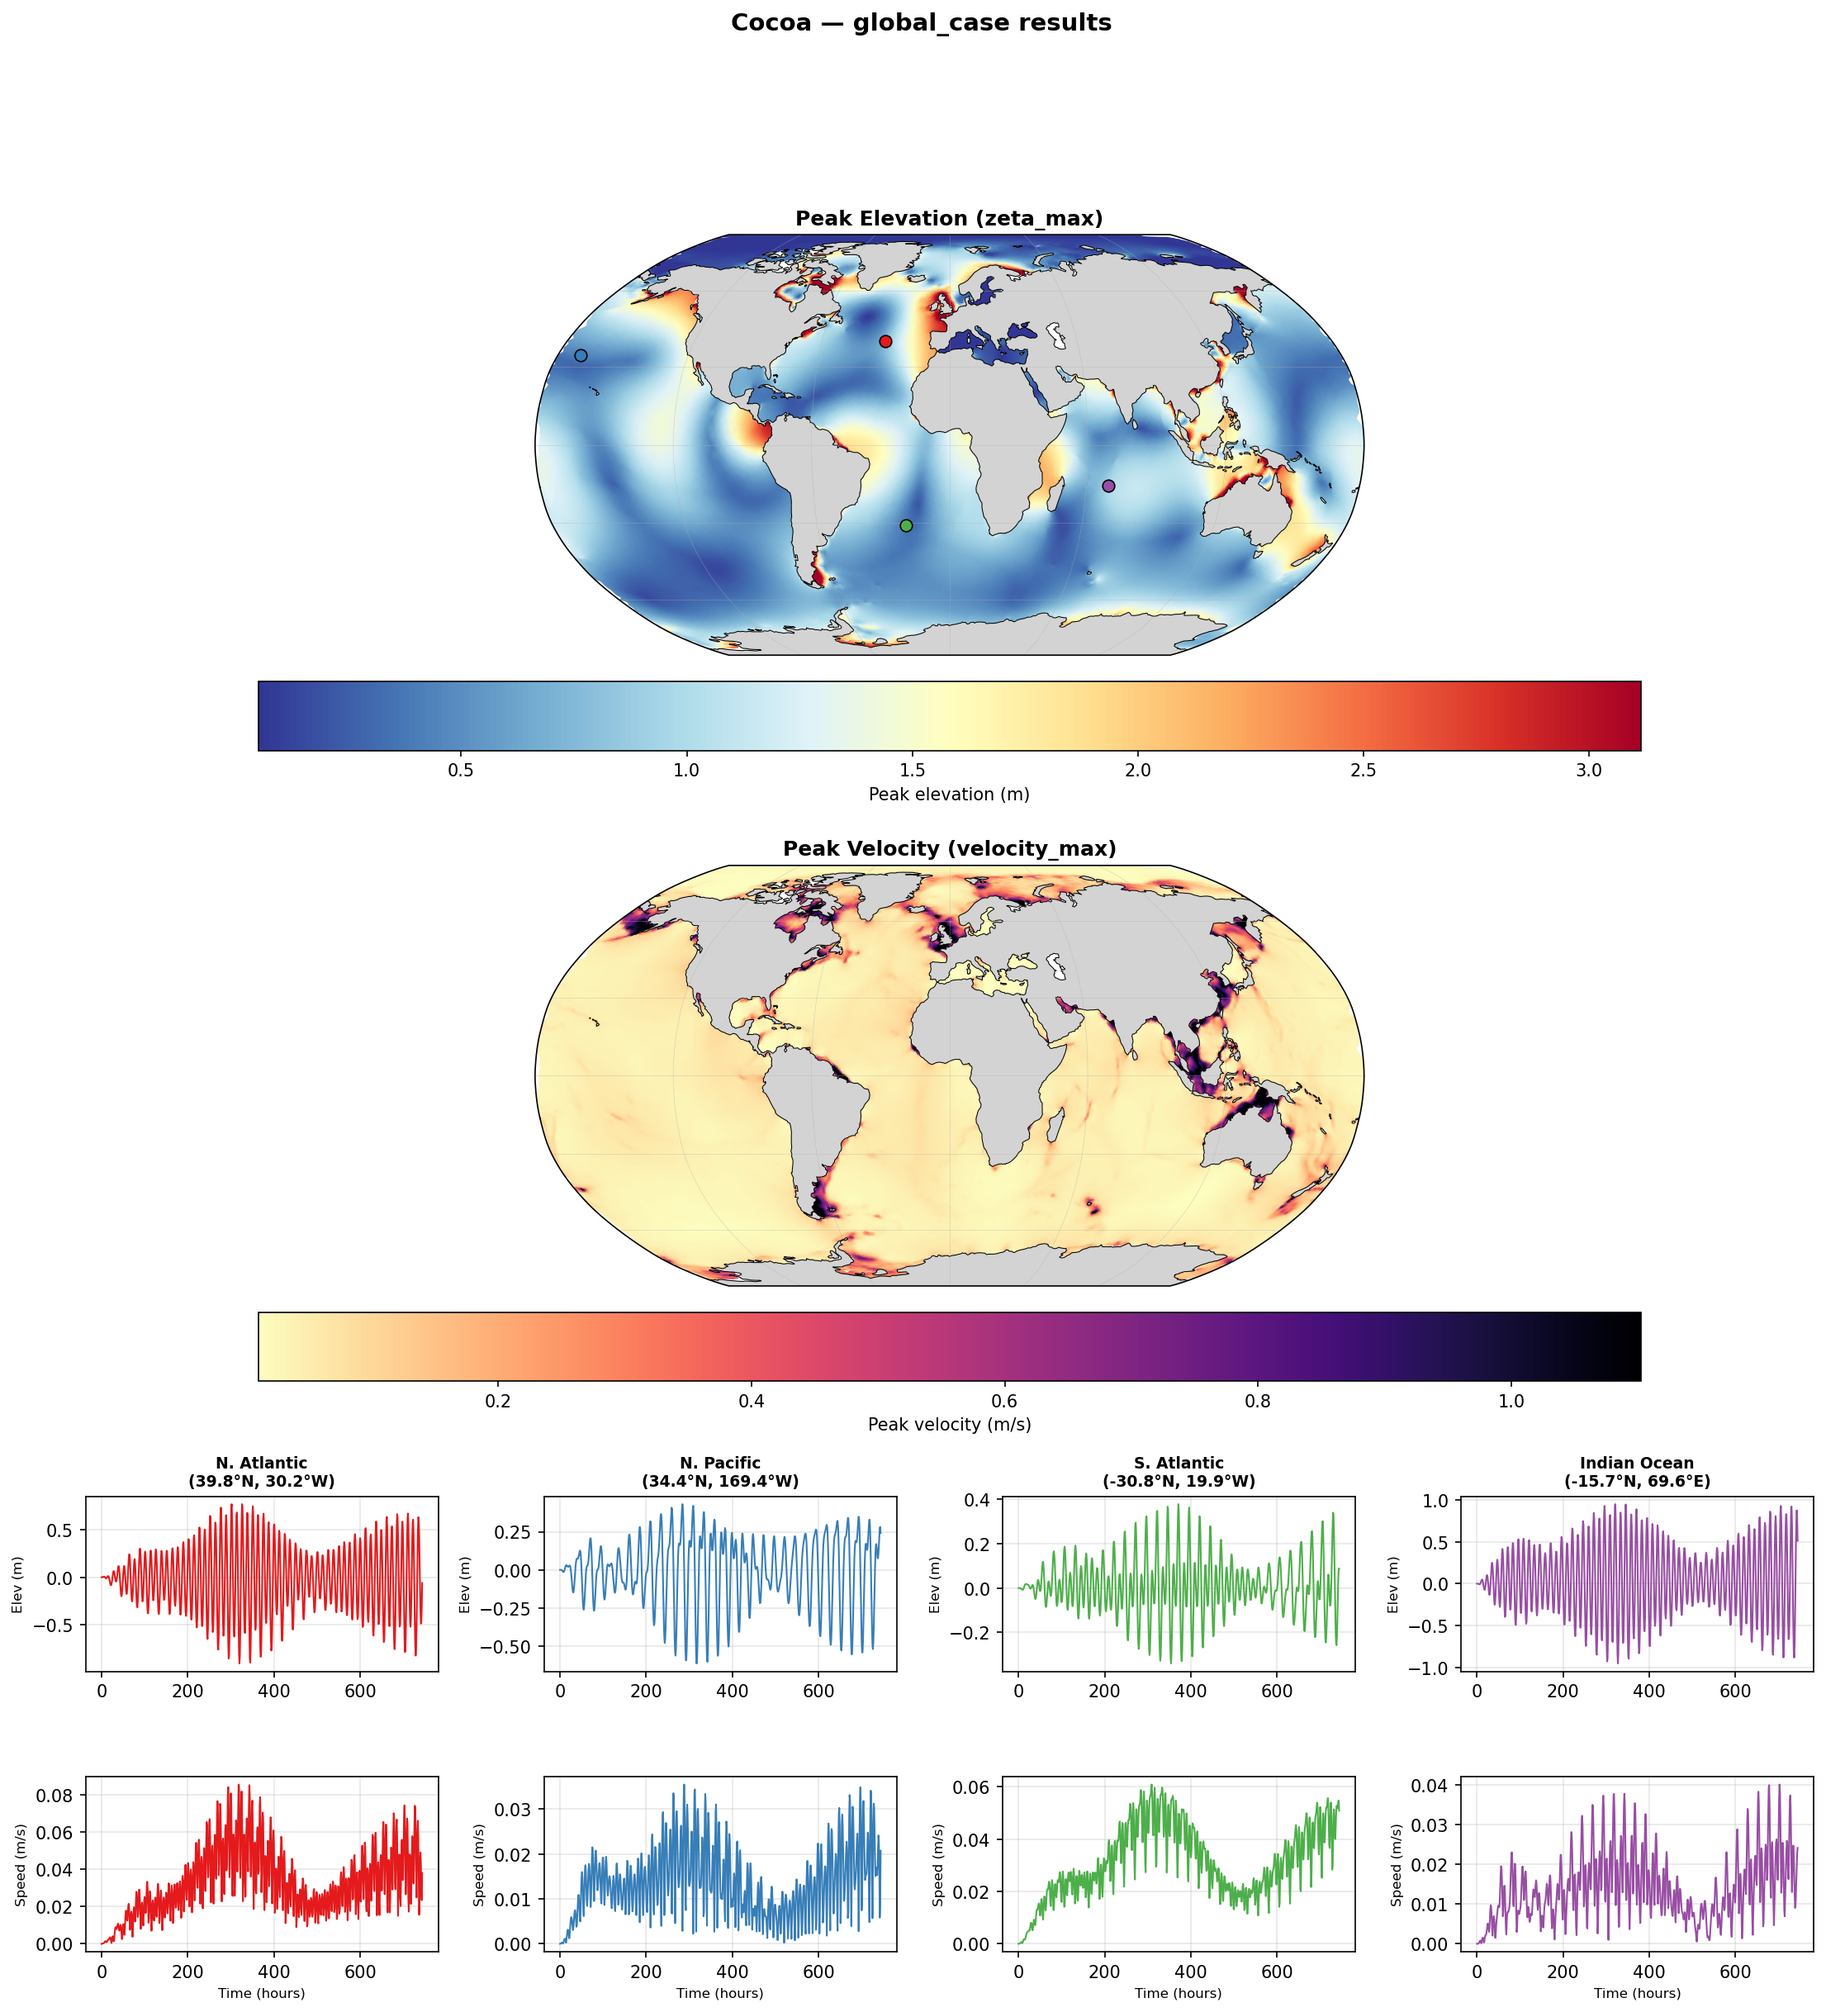
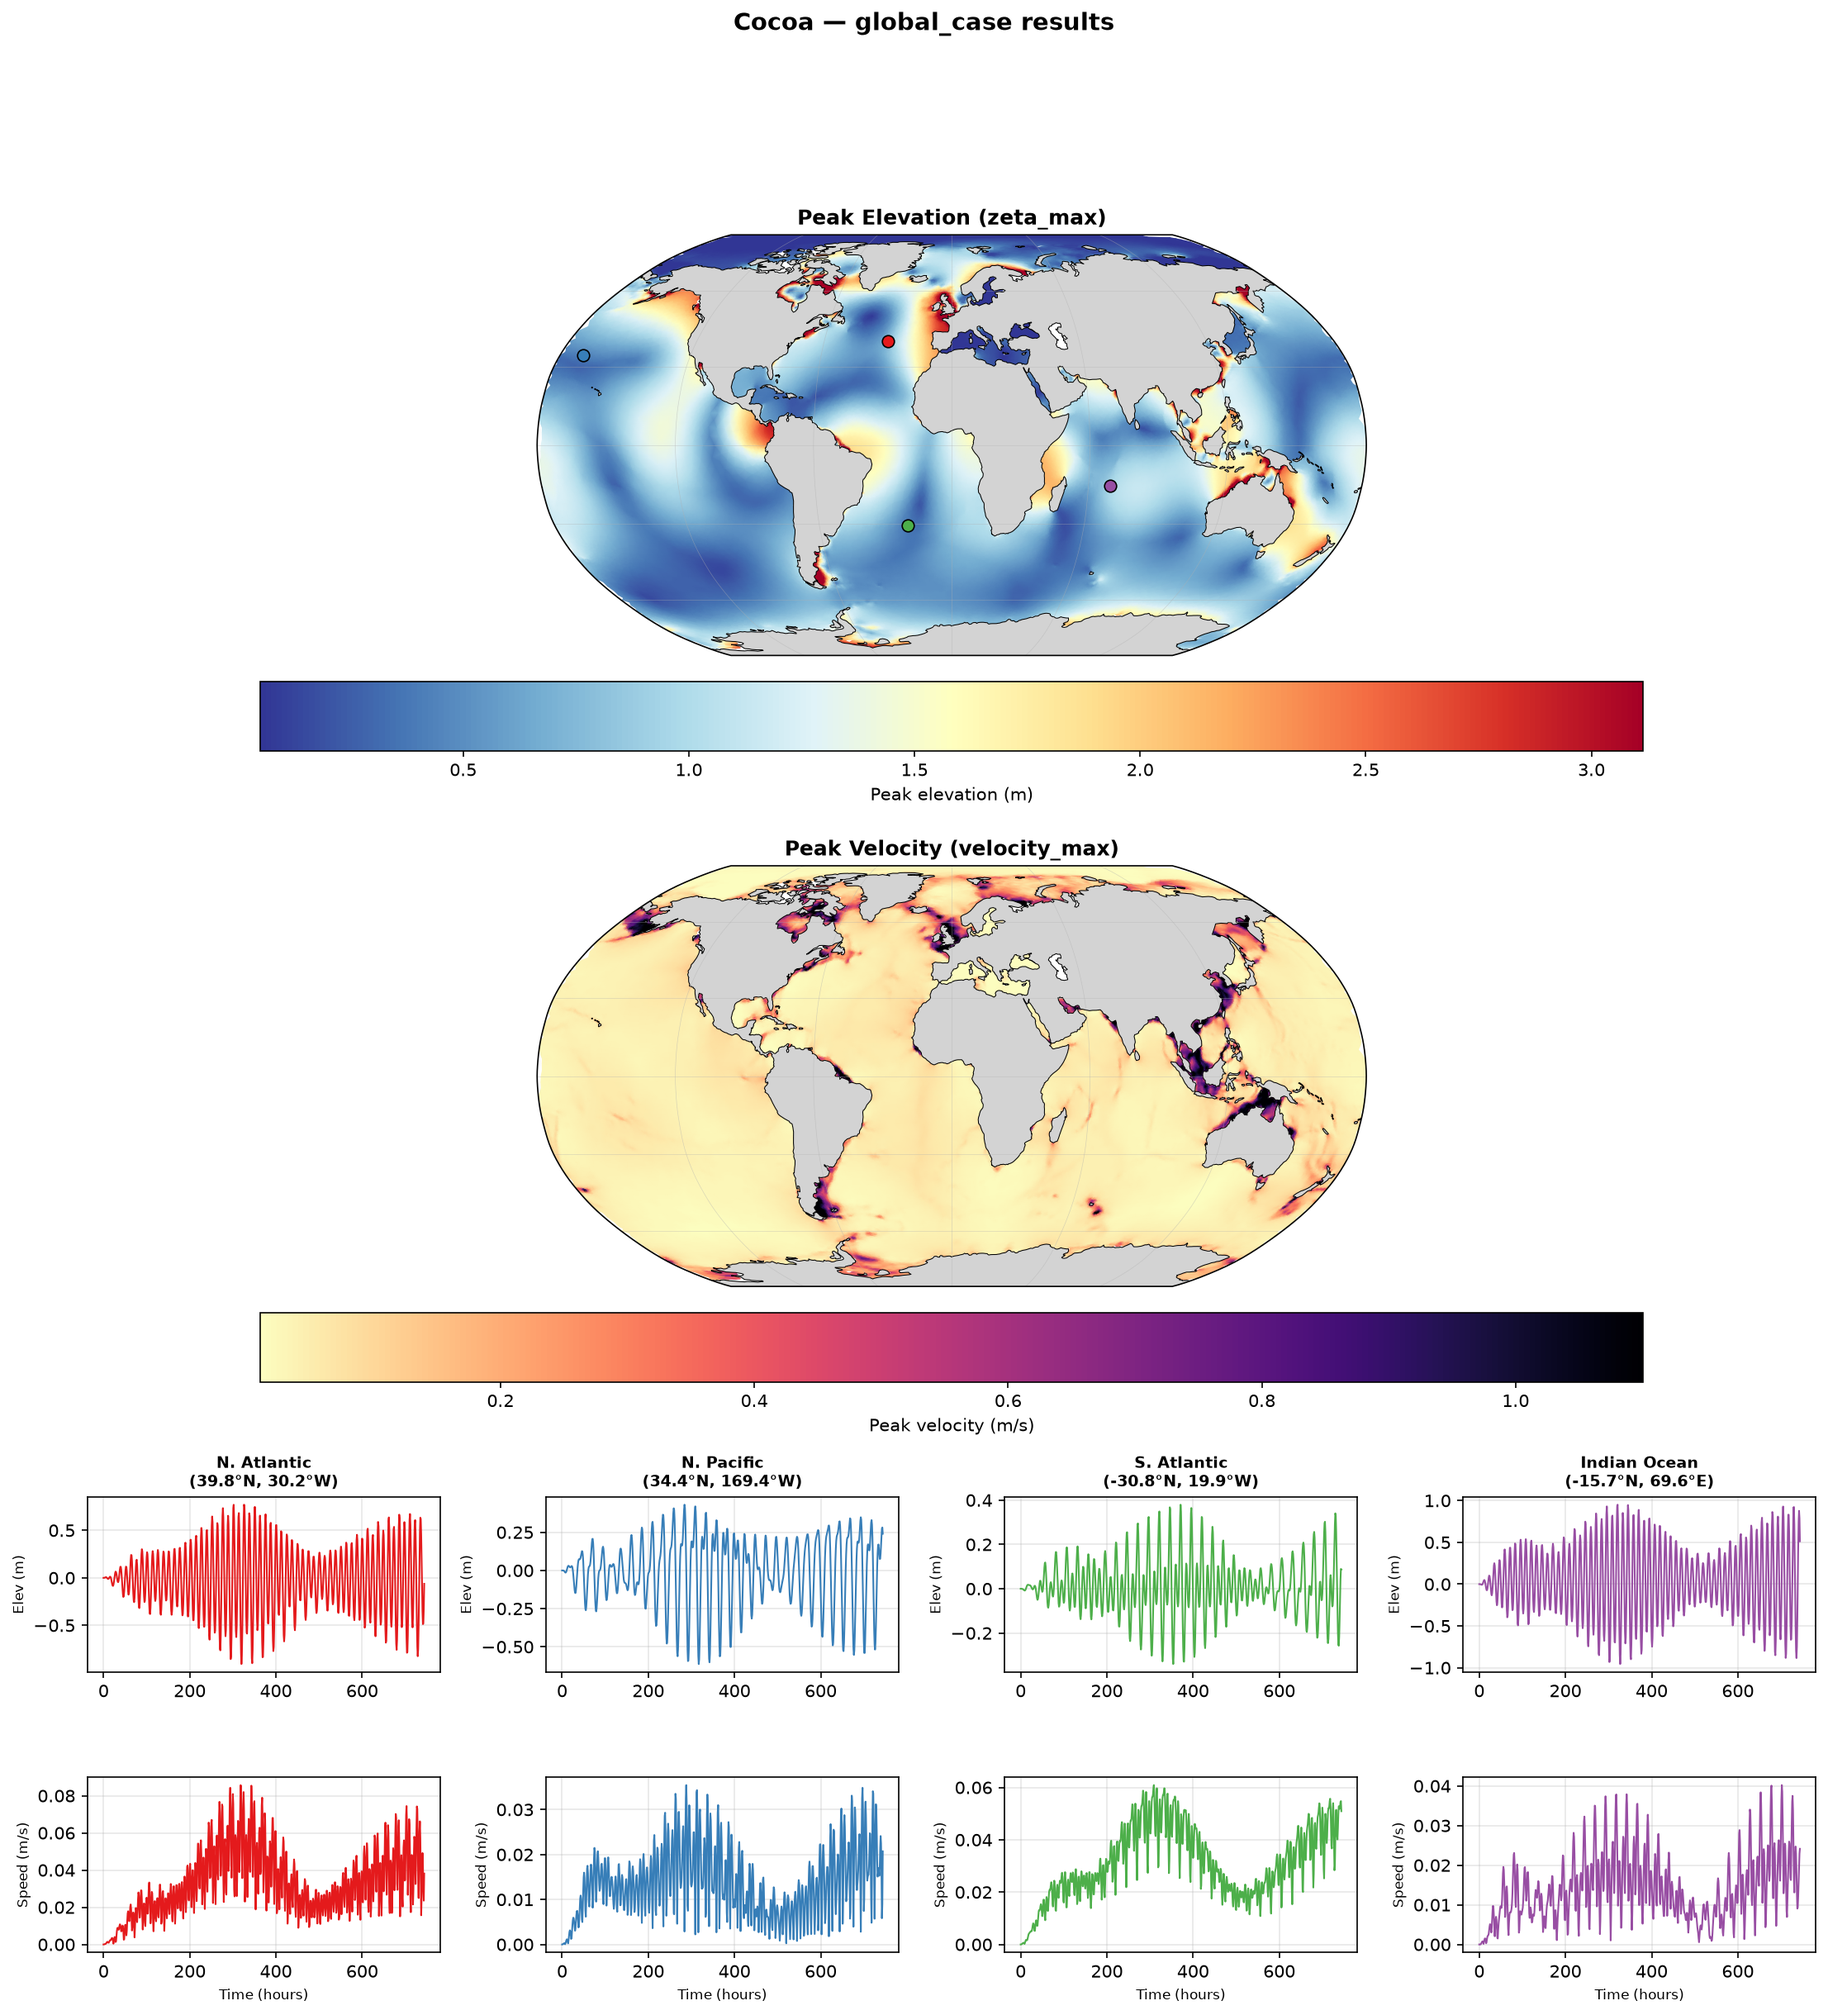
Update global_case to the current input and output formats
Grouped mesh layout (mesh id unchanged), output keys under
output.global with compression at the output level, and corrected
comments in the output-control config: mode chooses where the peak
fields go, not one file per rank, and an omitted variable keeps its
default rather than being switched off. The plot reads lon/lat and the
split peak file; the figure is regenerated.

diff --git a/global_case/plot_results.py b/global_case/plot_results.py
@@ -32,9 +32,12 @@ COCOA_DRY = -99990.0
 def load_cocoa_output(output_path):
     """Load Cocoa output NetCDF and return a dict of arrays."""
     ds = Dataset(output_path, "r")
+    # Peak fields go to <name>_peak.nc unless output.global.mode is combined.
+    peak_path = Path(output_path).with_name(Path(output_path).stem + "_peak.nc")
+    pk = Dataset(peak_path, "r") if peak_path.exists() else ds
     data = {}
-    data["x"] = np.array(ds.variables["x"][:])
-    data["y"] = np.array(ds.variables["y"][:])
+    data["x"] = np.array(ds.variables["lon"][:])
+    data["y"] = np.array(ds.variables["lat"][:])
     data["depth"] = np.array(ds.variables["depth"][:])
     data["elements"] = np.array(ds.variables["element"][:]) - 1
 
@@ -47,10 +50,12 @@ def load_cocoa_output(output_path):
 
     zeta_max = None
     vel_max = None
-    if "zeta_max" in ds.variables:
-        zeta_max = np.array(ds.variables["zeta_max"][:])
-    if "velocity_max" in ds.variables:
-        vel_max = np.array(ds.variables["velocity_max"][:])
+    if "zeta_max" in pk.variables:
+        zeta_max = np.array(pk.variables["zeta_max"][:])
+    if "velocity_max" in pk.variables:
+        vel_max = np.array(pk.variables["velocity_max"][:])
+    if pk is not ds:
+        pk.close()
     ds.close()
 
     if zeta_max is None or np.all(zeta_max <= COCOA_DRY):
